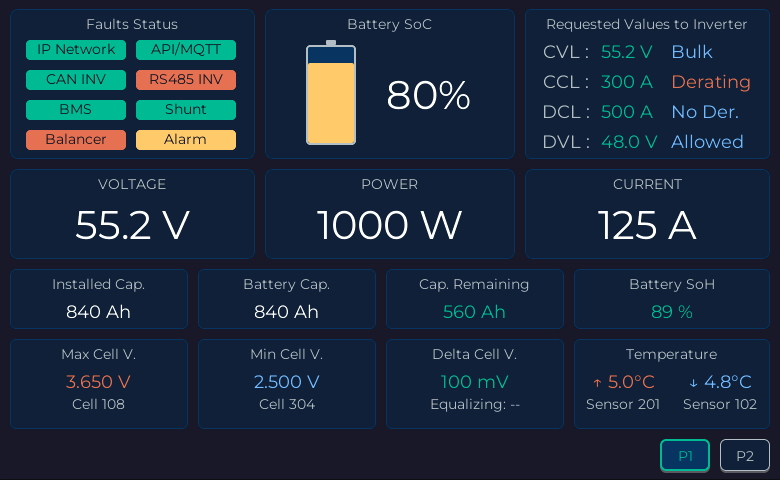
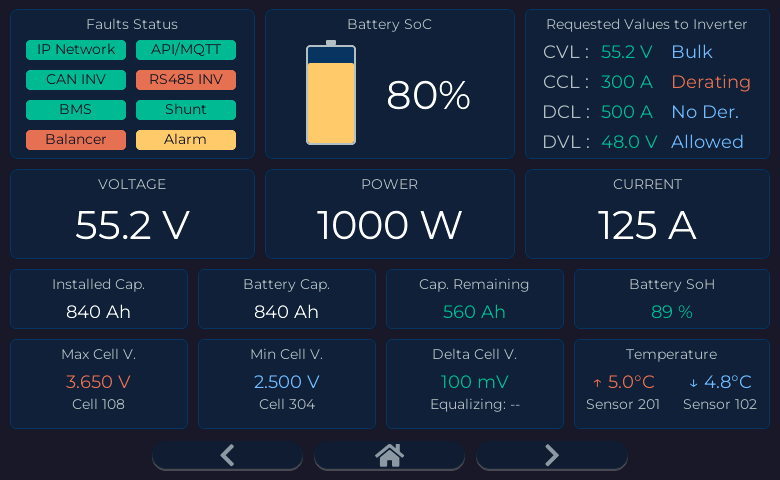
Updated YamBMS  display readme

diff --git a/README.md b/README.md
@@ -81,15 +81,28 @@ Currently only available for a resolution of **800x480**.
 
 The display can retrieve information in two different ways :
 
-* **HA version (recommended)**: LVGL code executed on a **standalone node*** with informations coming from `Home Assistant` (only requires a WiFi connection)
-  * Example => [YamBMS_RP_HA_Display.yaml](YamBMS_RP_HA_Display.yaml)
-* **ESPHome version**: LVGL code executed on the **YamBMS node***
-  * Package to be imported => [board_options_display_lvgl_package_800x480_blue_navy_esphome.yaml](packages/board/board_options_display_lvgl_package_800x480_blue_navy_esphome.yaml)
+| HA version (recommended) | ESPHome version |
+| --- | --- |
+| LVGL code executed on a **standalone MCU*** with informations coming from `Home Assistant` (only requires a WiFi connection). This does not overload your **YamBMS MCU***, which already has enough work to do. **Use this YAML =>** [YamBMS_RP_HA_Display.yaml](YamBMS_RP_HA_Display.yaml) | LVGL code executed on the **YamBMS MCU***. In this case, in addition to merging the datas from the `BMS`/`Balancer`/`Shunt` and managing communication with your `inverter`/`charger`, your **YamBMS MCU*** will be overloaded with executing the LVGL display. |
 
+_MCU = an ESP32 / ESP32-S3 / ESP32-P4 / ..._
+
+### YamBMS display
+
+* HA version => [board_options_display_lvgl_package_800x480_blue_navy_ha_yambms.yaml](packages/board/board_options_display_lvgl_package_800x480_blue_navy_ha_yambms.yaml)
+* ESPHome version => [board_options_display_lvgl_package_800x480_blue_navy_esphome.yaml](packages/board/board_options_display_lvgl_package_800x480_blue_navy_esphome.yaml)
 
 ![Image](images/YamBMS_Display.png "YamBMS Display")
 
-_node = an ESP32 / ESP32-S3 / ESP32-P4 / ..._
+### YamBMS + Overview display
+
+> [!IMPORTANT]
+> You will need to provide datas (non-YamBMS sensors) coming from your `inverter` / `charger`.
+
+* HA version => [board_options_display_lvgl_package_800x480_blue_navy_ha_full.yaml](packages/board/board_options_display_lvgl_package_800x480_blue_navy_ha_full.yaml)
+
+
+![Image](images/YamBMS_Display_Overview.png "YamBMS Display Overview")
 
 ## Hardware highlighted
 